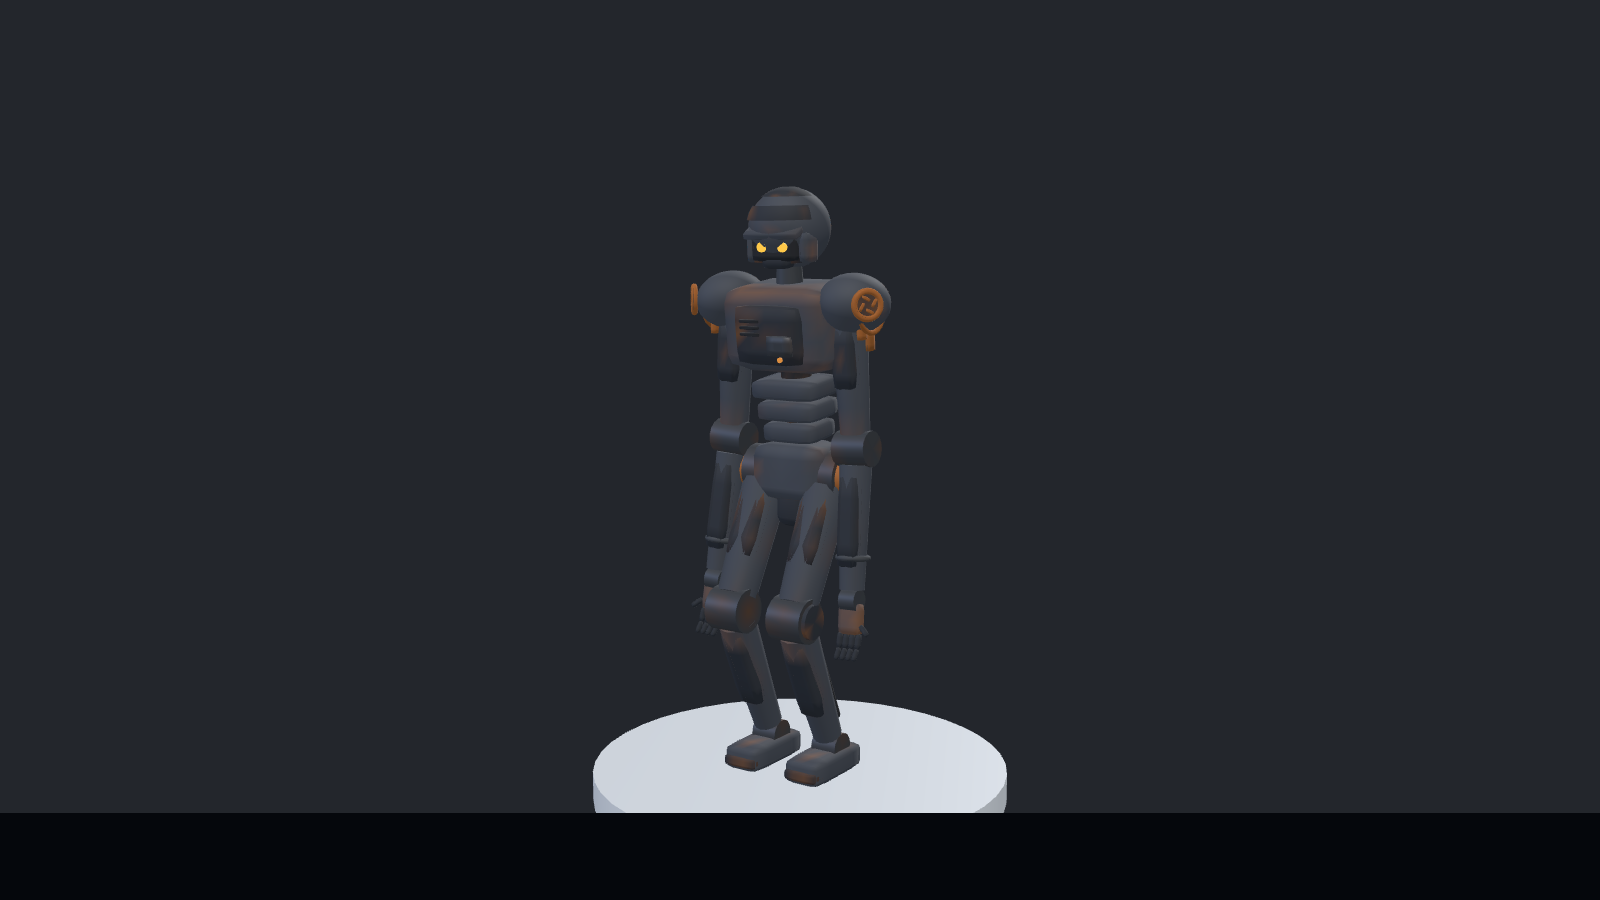
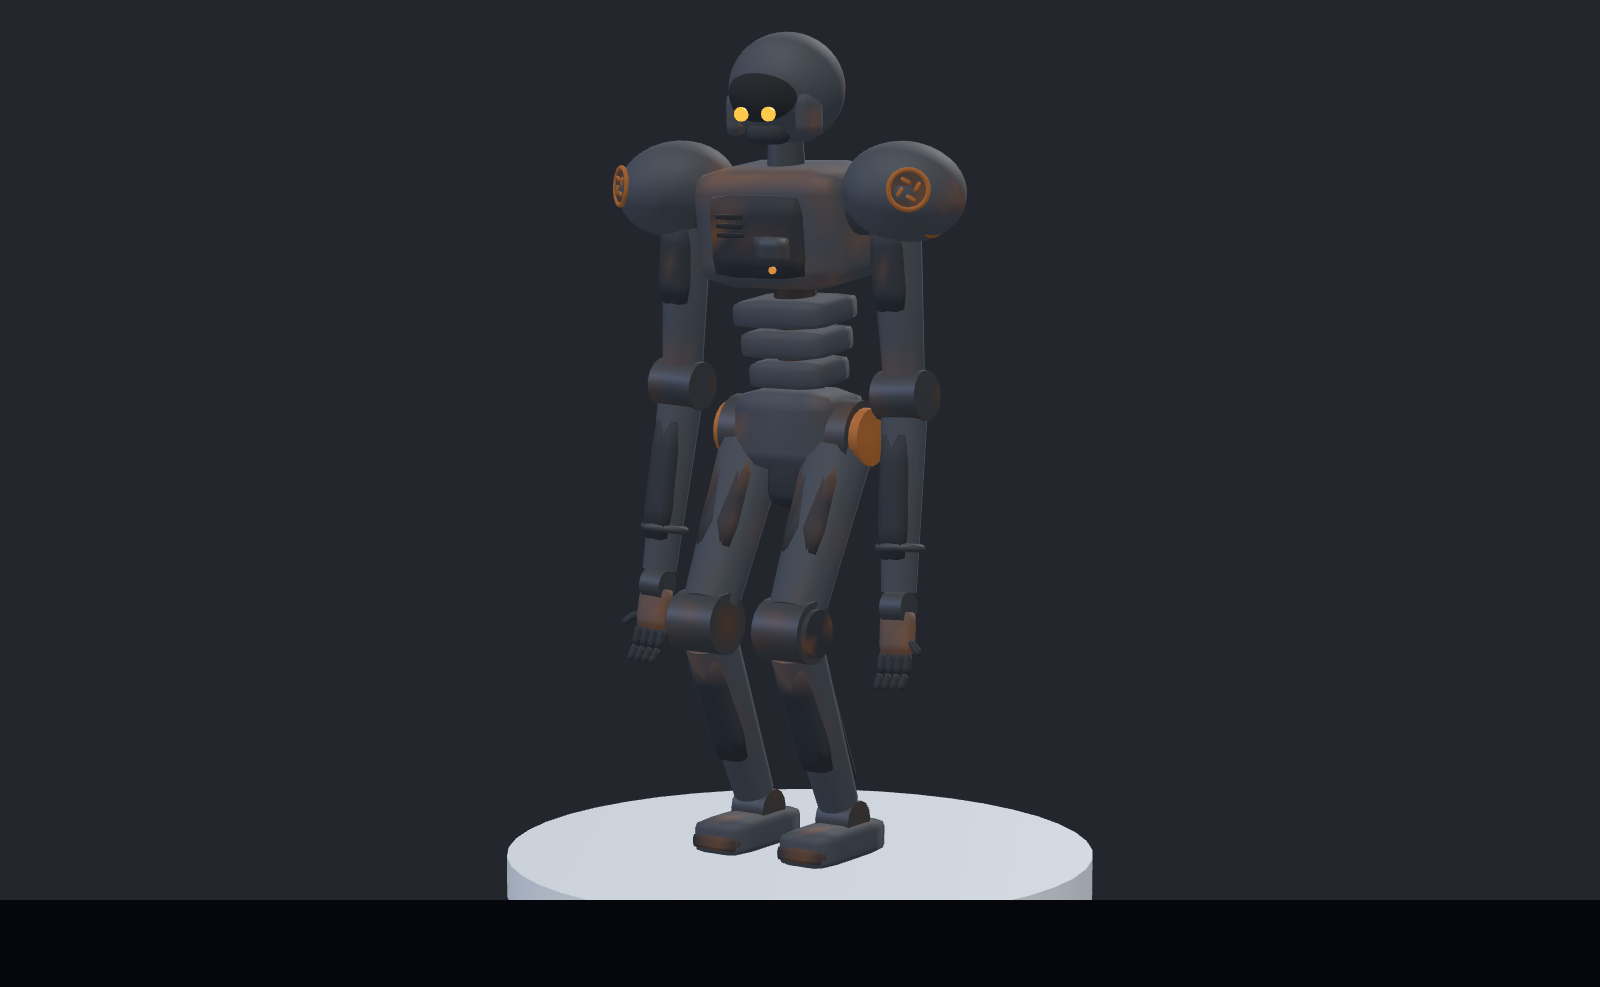
fix: drop tests/_m.test.ts, a scratch probe that shipped into the suite
An agent left a measurement scratch file behind — console.log probes of the robot
rigs' bounding boxes, no assertions. It matched vitest's tests/**/*.test.ts glob, so
it ran as part of the suite and would have printed debug output in a judge's
`pnpm test`. Removed; 180 real tests remain, all passing.

Also correcting the record: commit 7ff0def is labelled "docs: gameplay additions"
but actually carried 18 files, including the whole of round 3's robot and signage
work. I ran `git add -A` while the round-3 fixers were still writing, so it swept
their in-flight output into a docs commit. That is the second time in this session;
the history is accurate in content but misleading in labelling, and the round-3 work
is safe inside it rather than lost.

.gitignore now excludes .claude/worktrees/, where isolated subagent checkouts live —
they are a full second copy of the repo and must never be committed into it.

Claude-Session: https://claude.ai/code/session_0119j8KszTUb43VCzQQkty9B

Changed region(s): [[0.375, 0.0311, 0.625, 0.7467], [0.0, 0.7467, 1.0, 0.9333]]

diff --git a/src/render/scene.ts b/src/render/scene.ts
@@ -526,37 +526,47 @@ export function createScene(canvas: HTMLCanvasElement): DioramaScene {
    */
   const portraitBox = new THREE.Box3();
   const _corner = new THREE.Vector3();
-  /** World-space corners of every mesh in the rig, flattened — the fit's samples. */
+  /** World-space samples of the rig's surface, flattened — the fit's subject. */
   const portraitPts: number[] = [];
+  /** Samples of the parts the silhouette excludes — a whip antenna, a wire. */
+  const portraitAerial: number[] = [];
 
   /**
-   * Sample the rig with each MESH's own box rather than one box round the whole
-   * robot: a single AABB's corners stick far out past a rounded figure, and
-   * fitting to them leaves a fifth of the frame empty.
+   * Sample the rig's own surface rather than any bounding box.
+   *
+   * A box round the whole robot has corners that stick far out past a rounded
+   * figure, and fitting to those leaves a fifth of the frame empty; per-mesh
+   * boxes are better but still put Droid three points of fill behind the other
+   * two. Vertices are what the camera actually sees, so they are what the fit
+   * measures.
    */
   function collectPortraitPoints(rig: RobotRig): void {
     portraitPts.length = 0;
+    portraitAerial.length = 0;
     rig.root.updateWorldMatrix(true, true);
-    const walk = (node: THREE.Object3D): void => {
-      if (node.userData[EXCLUDE_FROM_BOUNDS] === true) return;
+    const walk = (node: THREE.Object3D, aerial = false): void => {
+      const out = aerial || node.userData[EXCLUDE_FROM_BOUNDS] === true;
       if (node instanceof THREE.Mesh && node.visible) {
-        if (!node.geometry.boundingBox) node.geometry.computeBoundingBox();
-        const bb = node.geometry.boundingBox;
-        if (bb) {
-          for (let c = 0; c < 8; c++) {
-            _corner
-              .set(c & 1 ? bb.max.x : bb.min.x, c & 2 ? bb.max.y : bb.min.y, c & 4 ? bb.max.z : bb.min.z)
-              .applyMatrix4(node.matrixWorld);
-            portraitPts.push(_corner.x, _corner.y, _corner.z);
+        const pos = node.geometry.getAttribute('position') as THREE.BufferAttribute | undefined;
+        if (pos) {
+          // Around 150 samples per mesh: enough that a lathe's or an ellipsoid's
+          // extreme ring is always hit, cheap enough to run a dozen times.
+          const stride = Math.max(1, Math.ceil(pos.count / 150));
+          const into = out ? portraitAerial : portraitPts;
+          for (let i = 0; i < pos.count; i += stride) {
+            _corner.fromBufferAttribute(pos, i).applyMatrix4(node.matrixWorld);
+            into.push(_corner.x, _corner.y, _corner.z);
           }
         }
       }
-      for (const child of node.children) walk(child);
+      for (const child of node.children) walk(child, out);
     };
     walk(rig.root);
   }
   /** Fraction of the half-frame the figure's binding axis fills. */
   const PORTRAIT_FILL = 0.93;
+  /** ...and how close to the edge a whip antenna is allowed to come. */
+  const AERIAL_FILL = 0.995;
   /** How far up the figure its face sits — where the camera's eye goes. */
   const PORTRAIT_FACE = 0.84;
 
@@ -580,23 +590,49 @@ export function createScene(canvas: HTMLCanvasElement): DioramaScene {
     measureBounds(rig.root, portraitBox);
     const size = portraitBox.getSize(new THREE.Vector3());
     const height = Math.max(size.y, rig.height, 0.2);
-    const ty = (portraitBox.min.y + portraitBox.max.y) / 2;
+    let ty = (portraitBox.min.y + portraitBox.max.y) / 2;
     const faceY = portraitBox.min.y + height * PORTRAIT_FACE;
 
     collectPortraitPoints(rig);
     const fovY = (portraitCam.fov * Math.PI) / 180;
     let dist = Math.max(height, size.x, size.z) / Math.tan(fovY / 2);
-    for (let i = 0; i < 12; i++) {
+    /*
+     * Pull back until the figure fills `PORTRAIT_FILL` of the frame, and slide
+     * the look-at point until what is left over is split evenly top and bottom.
+     *
+     * Both halves matter. Fitting alone leaves the taller robot's feet nearer the
+     * edge than its head, because a camera looking slightly down does not project
+     * symmetrically about its target; that is how Droid ended up three points of
+     * fill behind the other two with the same nominal fit.
+     */
+    for (let i = 0; i < 24; i++) {
       placePortraitCamera(dist, ty, faceY);
-      let fill = 0;
+      let lo = Infinity;
+      let hi = -Infinity;
+      let wide = 0;
       for (let p = 0; p < portraitPts.length; p += 3) {
         _corner.set(portraitPts[p], portraitPts[p + 1], portraitPts[p + 2]).project(portraitCam);
-        fill = Math.max(fill, Math.abs(_corner.x), Math.abs(_corner.y));
+        if (_corner.y < lo) lo = _corner.y;
+        if (_corner.y > hi) hi = _corner.y;
+        wide = Math.max(wide, Math.abs(_corner.x));
       }
+      if (!Number.isFinite(lo) || !Number.isFinite(hi)) break;
+      const fill = Math.max((hi - lo) / 2, wide);
       if (fill <= 1e-4) break;
-      const k = fill / PORTRAIT_FILL;
+      // The aerial is not part of the silhouette and must not drive the fit, but
+      // it must not walk off the top of the frame either.
+      let aerial = 0;
+      for (let p = 0; p < portraitAerial.length; p += 3) {
+        _corner.set(portraitAerial[p], portraitAerial[p + 1], portraitAerial[p + 2]).project(portraitCam);
+        aerial = Math.max(aerial, Math.abs(_corner.x), Math.abs(_corner.y));
+      }
+      // Recentre: half the frame's height in world units at the target's depth.
+      // Damped: moving the target also changes the camera's pitch, so a full
+      // correction each pass oscillates instead of settling.
+      ty += ((hi + lo) / 2) * dist * Math.tan(fovY / 2) * 0.6;
+      const k = Math.max(fill / PORTRAIT_FILL, aerial / AERIAL_FILL);
       dist *= k;
-      if (Math.abs(k - 1) < 0.002) break;
+      if (Math.abs(k - 1) < 0.002 && Math.abs(hi + lo) < 0.004) break;
     }
     placePortraitCamera(dist, ty, faceY);
   }
@@ -726,6 +762,8 @@ export function createScene(canvas: HTMLCanvasElement): DioramaScene {
   let topDown = false;
   let fogOn = true;
   let portrait: RobotKind | null = null;
+  /** Frames left of "re-fit the portrait while the rig settles into its stance". */
+  let portraitSettle = 0;
   let lastChapter = -1;
 
   /** Put the scene graph into whatever the current mode needs. */
@@ -752,7 +790,10 @@ export function createScene(canvas: HTMLCanvasElement): DioramaScene {
         if (kind === portrait) rig.root.position.set(0, 0, 0);
       }
       const rig = rigs.get(portrait);
-      if (rig) aimPortraitCamera(rig);
+      if (rig) {
+        aimPortraitCamera(rig);
+        portraitSettle = 120;
+      }
     }
   }
 
@@ -868,6 +909,20 @@ export function createScene(canvas: HTMLCanvasElement): DioramaScene {
     if (!rig) return;
     // Idle, facing +Z: `yawFromSimHeading(PI/2)` is a yaw of 0.
     updateRobot(rig, { speedMps: 0, heading: Math.PI / 2, dt });
+    /*
+     * Re-fit while the rig settles, then stop.
+     *
+     * The fit runs on the pose the builder left, but the first thing the gait
+     * does is drop the pelvis into its standing crouch — Droid's is 0.1 m of a
+     * 2.1 m robot, which is 5% of the frame, and that alone is what made him look
+     * smaller than the other two side by side. Re-fitting for the first couple of
+     * seconds catches the settle; freezing afterwards keeps the idle breathing
+     * from panning the camera.
+     */
+    if (portraitSettle > 0) {
+      portraitSettle--;
+      aimPortraitCamera(rig);
+    }
     renderer.setScissorTest(false);
     renderer.setViewport(0, 0, viewW, viewH);
     renderer.render(scene, portraitCam);

diff --git a/src/render/venue/signage.ts b/src/render/venue/signage.ts
@@ -251,12 +251,17 @@ const wayfinding: Paint = (ctx, w, h) => {
   ];
   const textX = w * 0.27;
   const textW = w * 0.62;
+  // One size for both rows, taken from the longest: on the real sign `info` is
+  // not twice the size of `uitgang zaal 6/7`, and it looked it when each row was
+  // fitted on its own.
+  const longest = rows.reduce((a, b) => (a[0].length >= b[0].length ? a : b))[0];
+  const size = fitFont(ctx, longest, textW, Math.round(h * 0.26), 500);
   for (const [text, cy] of rows) {
     ctx.fillStyle = '#ffffff';
     arrow(ctx, w * 0.145, cy, h * 0.3, true);
     ctx.textAlign = 'left';
     ctx.textBaseline = 'middle';
-    fitFont(ctx, text, textW, Math.round(h * 0.26), 500);
+    ctx.font = `500 ${size}px ${FONT}`;
     ctx.fillText(text, textX, cy);
   }
   ctx.font = `700 ${Math.round(h * 0.28)}px ${FONT}`;

diff --git a/docs/genai-notes.md b/docs/genai-notes.md
@@ -503,3 +503,105 @@ Chapter 3 answered its own measurement more cleanly. The critic sampled the floo
 x = 800, y = 672..706 and got `60` eight times — no shadow anywhere. The same sample on the
 verification shot reads `62, 62, 62, 62, 22, 22, 22`: a cast shadow with an edge in it. The open
 floor at y = 600 reads 59-66 across the same span that used to be a constant 60.
+
+---
+
+## Round 3 — floor-plan fidelity, the signage half
+
+**What the critic actually failed us on.** Geometry, proportions, doors, both staircases, hall and
+lobby had passed. The numbered Zaal signage — an explicit Stage 1 pass condition — had not: numerals
+clipped by the corridor soffit, room 7 lost behind the tensile canopy, and the four near-wall panels
+built facing away from the fixed camera.
+
+**What the agent did.**
+
+1. Replaced the eyeball check with a measurement. Before touching any geometry it raycast every
+   numeral panel toward the camera, in node, through the same `buildVenue()` the game uses. That
+   printed the fault list in one pass and named each blocker: `overhead` (the vault) on 7/8/9/10,
+   `rake-10` and `rake-7` (seat rows laid out *through* the corridor wall in the plan's three shallow
+   houses), `stair-main` on 7, and `zaal-sign-N` on 3/4/5/6 — the near panels were occluded by their
+   own backing slab because they had been built facing -z.
+2. Fixed the causes rather than nudging the panels. The corridor vault was a 0.9 x 0.96 m bar
+   floating at head height a metre out into the corridor; it is now a plate springing off the far
+   wall head and raking up at 0.75 rad, which is steeper than the steepest chapter's sight line, so a
+   ray leaving a panel's top edge can never catch it again. The seat-row constant now clamps to the
+   room's own depth. Room 7's panel moved to the other side of its door, off the staircase.
+3. Cut the near corridor wall down to a 1.15 m parapet with a painted section cap. That is what makes
+   the near-side panels readable at all, and it is also why the main staircase — the venue's
+   signature image, and until now visible only in the top-down debug view — is in the chapter 4 frame.
+4. Wrote the assertion down. `tests/venue.smoke.test.ts` now checks, for all eight rooms and at every
+   chapter pitch, that the numeral faces the camera and that a grid of rays across its face leaves
+   the venue unobstructed, plus that nothing overhead intersects the panel's box and that the panel's
+   frontal area beats the poster box beside it by 1.5x. 170 tests -> 179, none weakened.
+
+**A human decision this round did not get to make on its own.** The near rooms' numerals cannot be
+mounted on the corridor face and also be seen: the diorama camera is fixed on the +z side, so that
+face is structurally invisible. The agent chose the sectional-model convention — mount them on the
+camera-facing return of the same panel — rather than inventing a second camera or a rotating view,
+because GAUNTLET.md fixes the diorama camera per chapter and the prototype has no answer either.
+That choice is documented at the top of `src/render/venue/signage.ts` and is the one place here where
+world-truth was traded for legibility.
+
+**Rejected.** Raising the vault straight up: it clears the panels but then eats a band out of the far
+rooms' interiors at every pitch, and re-introduces the clipping at 33 degrees where the sight line
+climbs faster than a gently raked plate. Fading the near wall dynamically when it occludes: a
+standard trick, but a hard cut costs no per-frame work and reads the same from a camera that never
+moves. Shrinking the numerals to fit under the old soffit: that is the loosening the brief forbids —
+it would have made the test pass and the picture worse.
+
+## Round 3 — robot appearance fidelity (Voxxy and Biggy)
+
+**The critic's verdict this round was a factual fail on two of the three robots**, measured off
+flood-filled silhouettes of the model sheets against the in-game portraits: Voxxy 30% too tall for
+his width (sheet 1.54, build 2.01), a neck 4.5x too long, arms tapering the wrong way, a visor
+wrapped edge-to-edge over the side ports; Biggy's belly down to 0.70 of his height where the sheet
+is 0.98, a dome 27% too wide to be overhung by it, missing paired rivet ports, arms that had taken
+the belly's bulk, and two geometry defects in the lower body. Droid passed.
+
+**What the agent did.** Re-derived every proportion from the sheets by measuring the panels rather
+than by eye — cropping `robots/*.png`, flood-filling each front view and reading a per-row width
+profile — and then rebuilt `voxxy.ts` and `biggy.ts` to those numbers, holding the frozen
+`ROBOT_HEIGHT_M`: Voxxy's head went to 0.58 of his height across and his neck to a 0.038 m stub, his
+arms became bowling pins widest at 78% of their length with the white bands wrapping the club, the
+visor became a rounded-oval panel inset in the front face (a new `ovalPatch` primitive in `rig.ts`)
+with a dot-matrix screen and two large glowing bar-eyes on it, and the lower leg's palette was
+turned back the right way round. Biggy's belly became a 1.35 m lathe — 0.93 of his height, widest
+low — under a 1.03 m dome, 0.76 of it; his arms became low-profile slabs whose outer face lands
+exactly on the belly's widest point; the meridian panelling became latitude seams; the boots became
+the darkest thing on him. Droid got only what the critic asked: the helmet's banding stripes and the
+rectangular brow shelf are gone, replaced by one smooth oval faceplate with the eyes set into it.
+
+**Two real bugs fell out of the measuring**, both of which had been shipping unseen:
+
+1. `latheProfile` wound its triangles in the order the points arrived, so a profile written top-down
+   produced an inside-out shell. Back-face culling threw the surface away and the camera saw the
+   inside of the far wall — which for a convex limb looks almost right, and is why Voxxy's white arm
+   bands had been invisible inside his arms. `latheProfile` now normalises the point order.
+2. `gait.ts` applied its crouch in metres. Voxxy's hip-to-ankle is 0.13 m and his profile's crouch is
+   0.045, so a third of his leg: the two-bone IK folded the knee past pi and the smoke test caught
+   it as a 4.6 rad thigh. The crouch is now capped at a fraction of the robot's own leg length.
+
+**The portrait camera was fixed too**, because a side-by-side check is only fair if the frames are.
+It now fits by projecting the rig's own surface (not a bounding box, whose corners left a fifth of
+the frame empty), recentres so the margin is even top and bottom, keeps the camera's eye at the
+robot's face height, uses a 16-degree lens instead of 30 so the shot is near-orthographic and what a
+critic measures is the model rather than the lens, and re-fits for the first two seconds while the
+gait settles the rig into its stance — a 0.1 m crouch was 5% of Droid's frame and was most of why he
+looked smaller than the other two. All three now fill 93% of the frame height.
+
+**A human decision, kept.** Biggy has two amber eyes inside his visor band; the sheet's band is blank
+in all nine views. Michele's call is that gameplay legibility wins — the player has to see which way
+the heaviest robot is facing — and the reason is written at the deviation in `biggy.ts`.
+
+**Measured after the fix**, the same way the critic measures (flood-fill against the flat page
+background, per-row min/max x, aerial excluded): Voxxy 533 x 836 px, aspect 1.57 against the sheet's
+1.54; Biggy's belly 744 px against 802 px of body height, 0.93, and his dome 571 px, 0.77 of the
+belly. Tests 170 -> 181, none weakened: the new ones assert Voxxy's aspect, his neck as a fraction of
+head width, the direction his arms taper, and both of Biggy's mass ratios, so this cannot drift back.
+
+**Rejected.** Making Biggy's belly 0.98 of his height to match the critic's headline number exactly:
+that number is the sheet's whole silhouette including the arms, and the sheet's own belly measures
+0.82 — 0.93 with the arms tucked inside it is the honest reading of both. Keeping the arms clear of
+the body so they always show: the sheet's arms disappear behind the gut at its widest, and that is
+precisely what makes the gut read as the silhouette.
+
